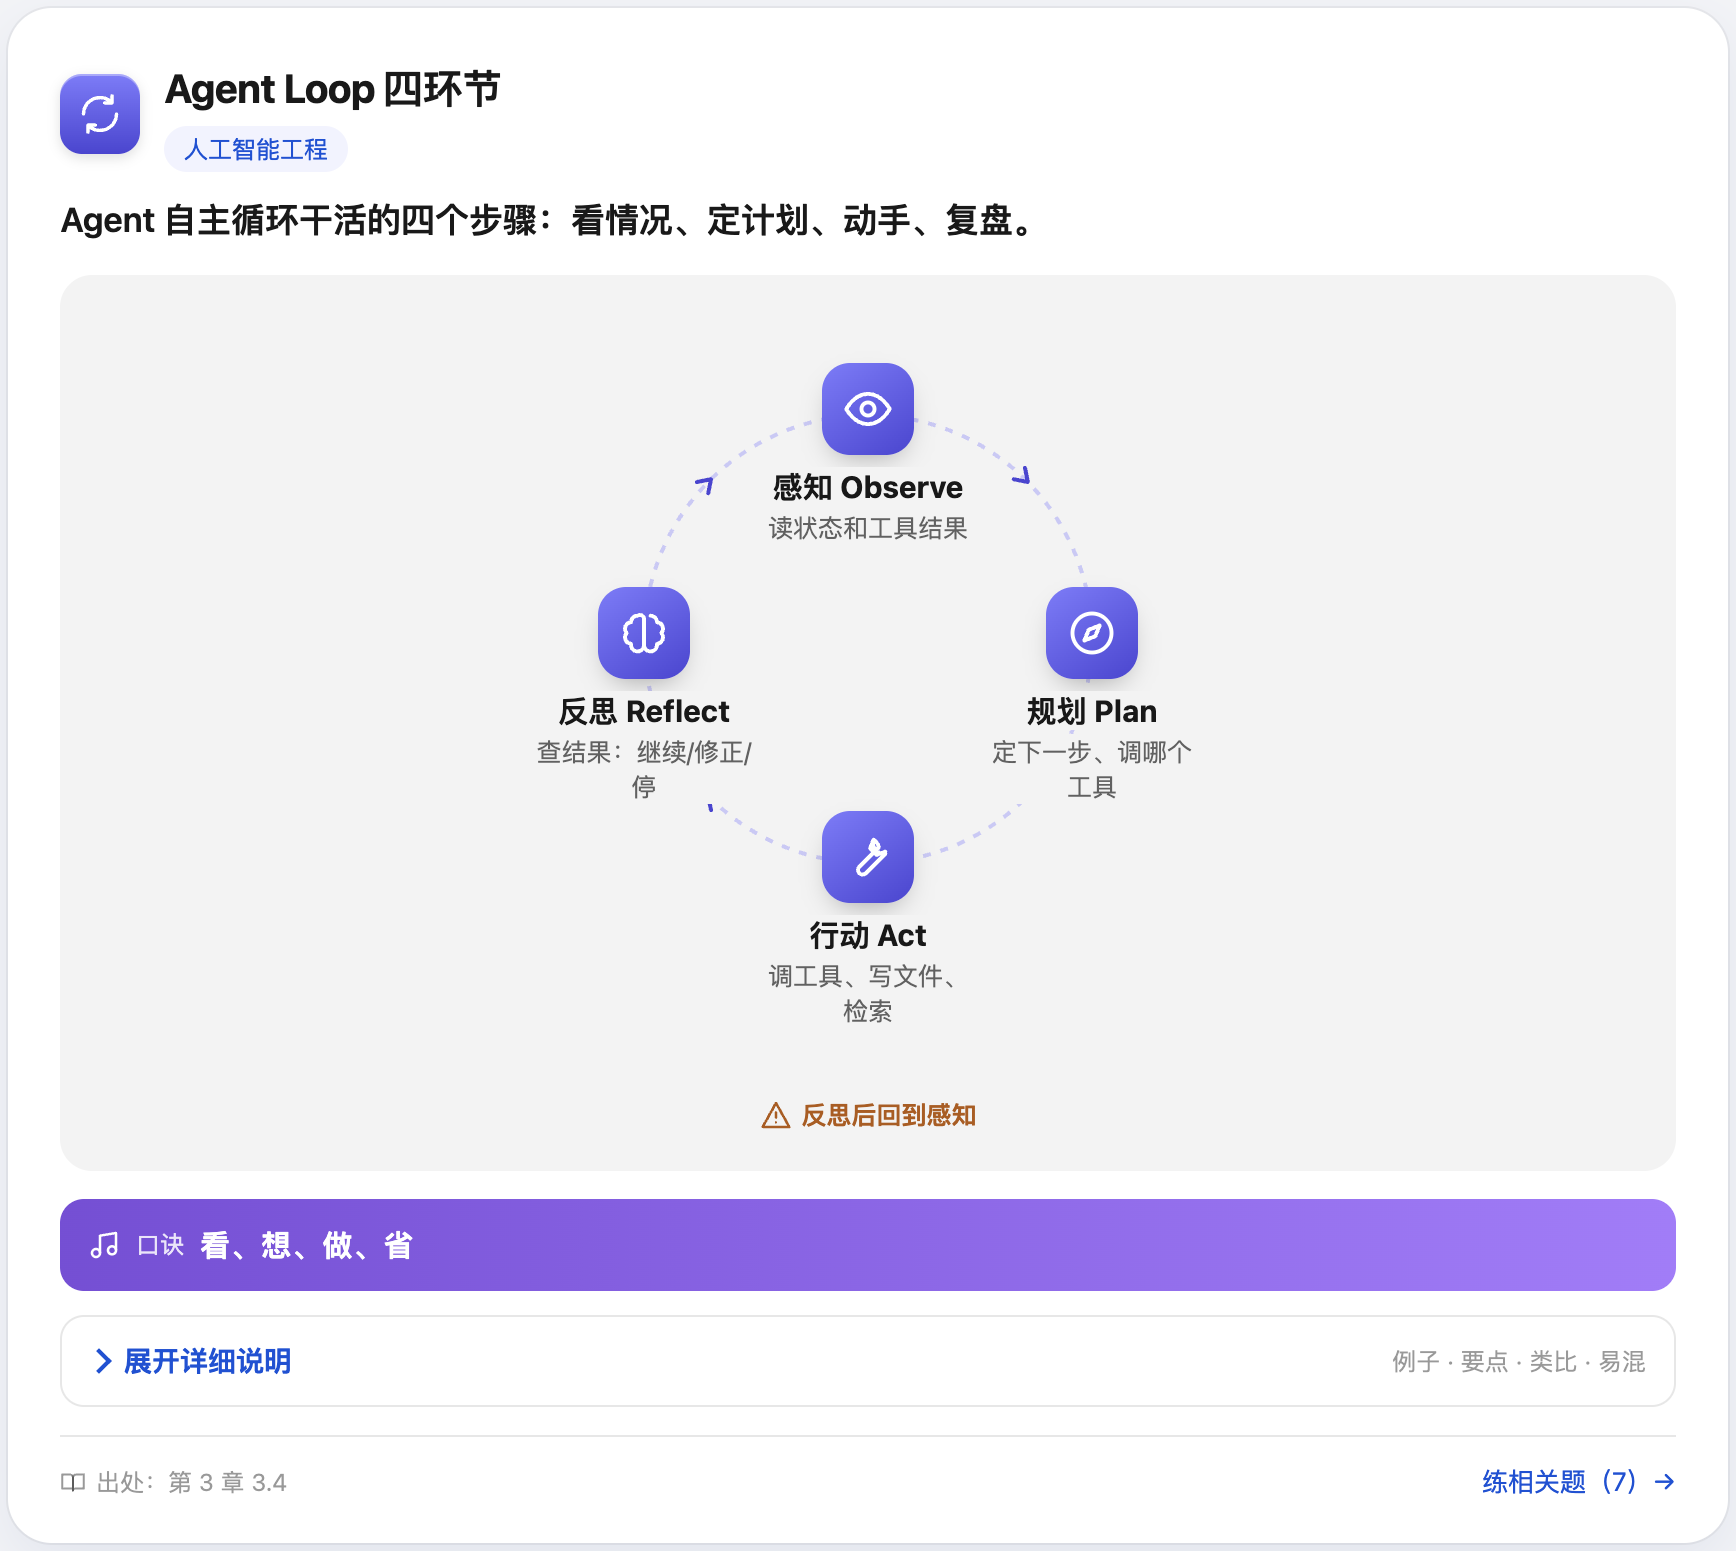
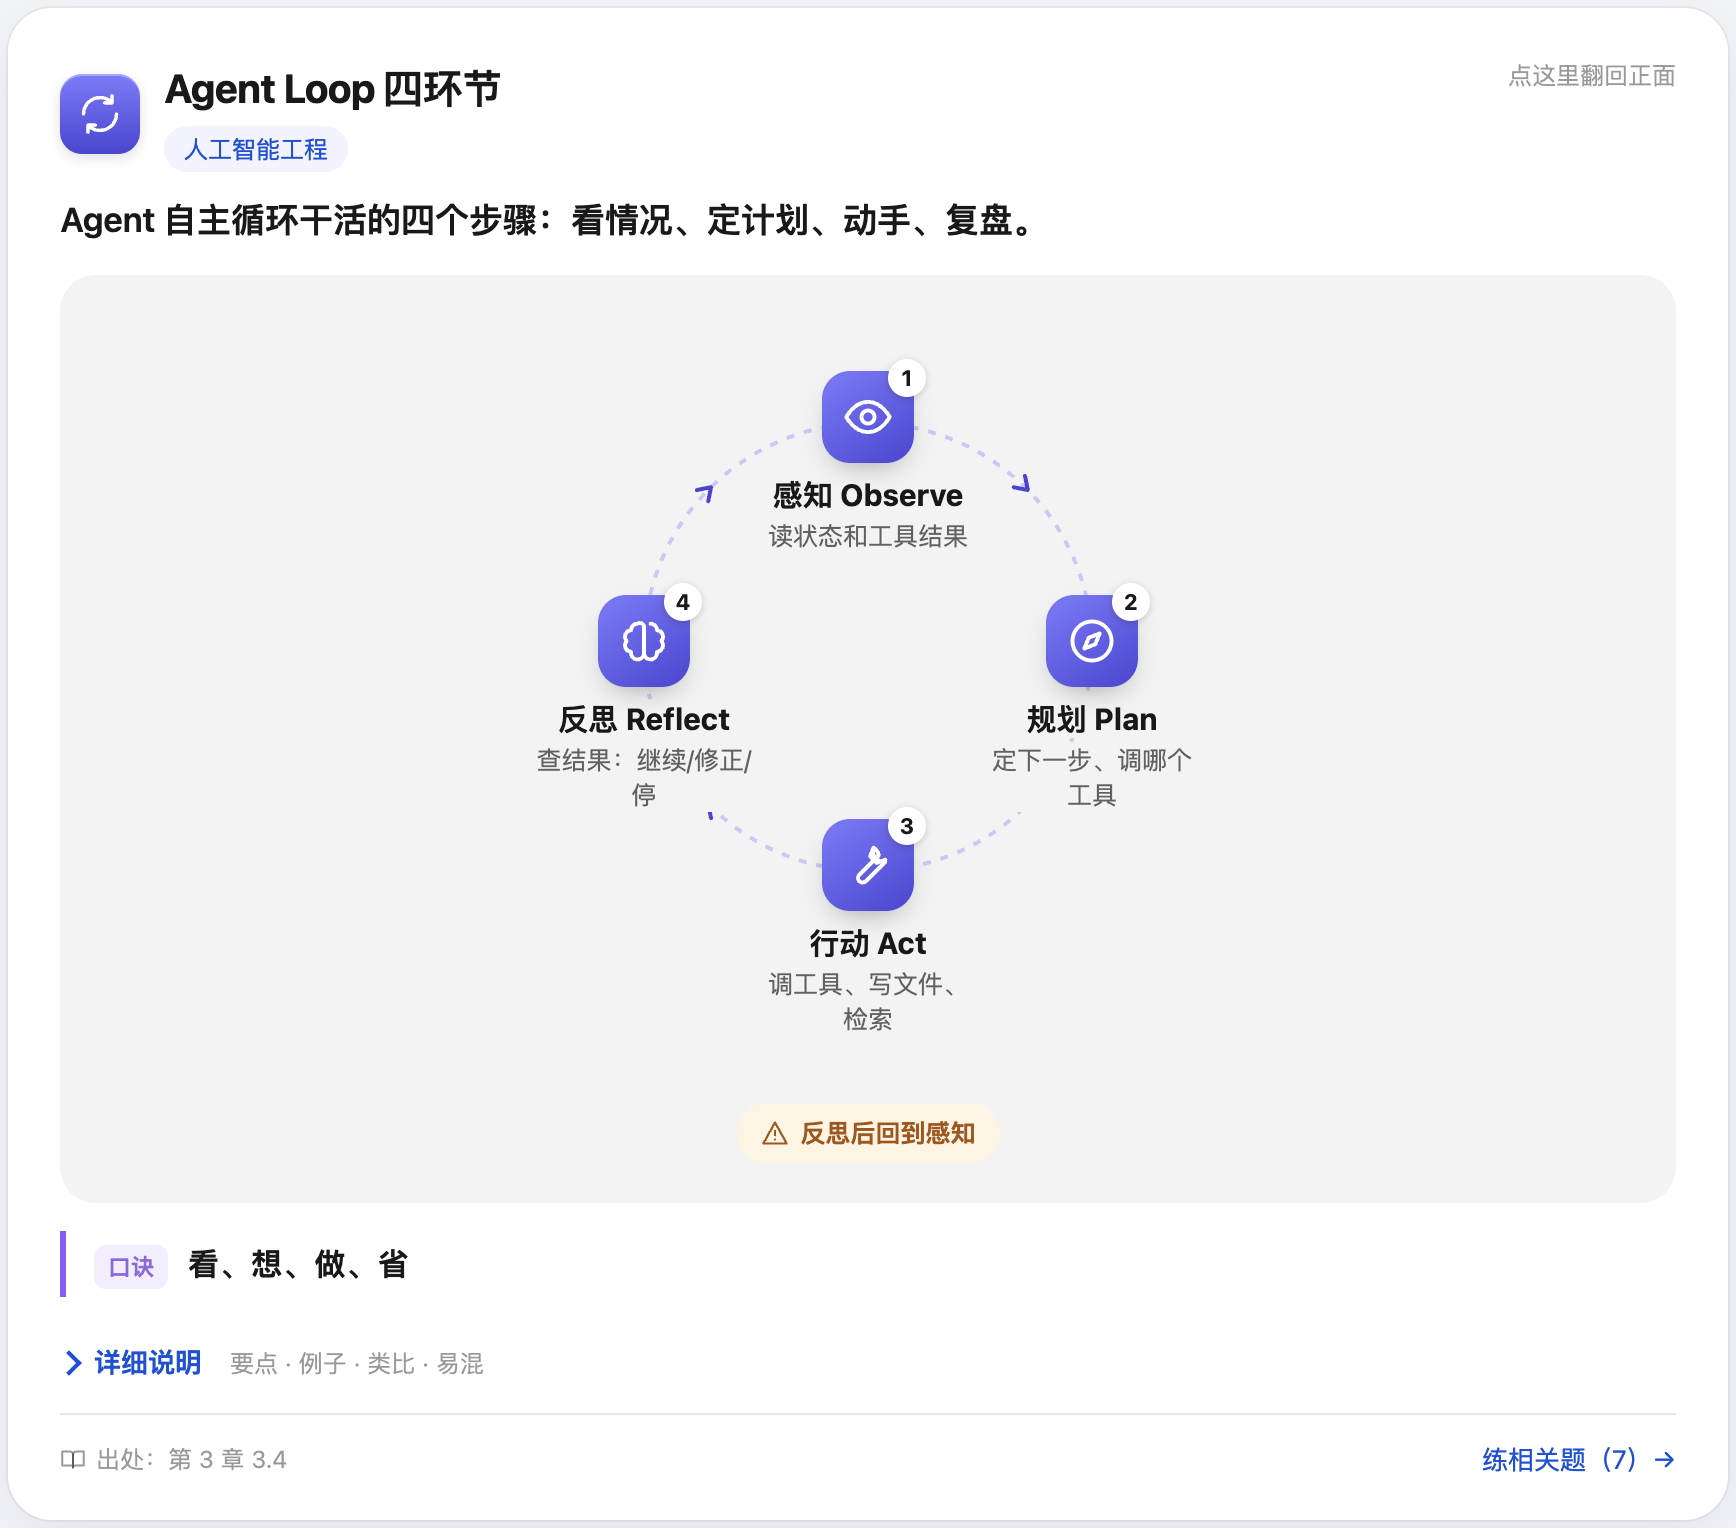
卡片背面再简化：语义配色（禁止红/允许绿）、错→对箭头、步骤序号、口诀改为引语、详细说明改为文字链接；详细里要点排在例子前

diff --git a/js/cards.js b/js/cards.js
@@ -74,14 +74,16 @@
   function visualHtml(v, g) {
     if (!v || !v.type) return "";
     const c = (window.MODULE_COLORS || [])[g.m] || ["#3b8bff", "#0a5ce6"];
-    const grad = `background:linear-gradient(145deg,${c[0]},${c[1]})`;
-    const icb = (name, cls) => `<span class="${cls || "vn-ic"}" style="${grad}">${window.iconSvg(name || g.icon || "bulb")}</span>`;
-    const node = (x) => `<div class="vn">${icb(x.i)}<b>${esc(x.t)}</b>${x.d ? `<span>${esc(x.d)}</span>` : ""}</div>`;
+    const TONE = { bad: ["#ff7b7b", "#e03131"], good: ["#43d17f", "#1f9d55"], warn: ["#ffbf4d", "#e8890c"] };
+    const toneOf = (n) => /^(listx|ban|xcircle|stop|trash|bug|eyeoff|minus)$/.test(n) ? "bad" : /^(listcheck|check|shieldcheck|thumbup|trophy|badge|plus)$/.test(n) ? "good" : /^(alert|hourglass)$/.test(n) ? "warn" : "";
+    const gradOf = (n) => { const t = TONE[toneOf(n)] || c; return `background:linear-gradient(145deg,${t[0]},${t[1]})`; };
+    const icb = (name, cls, num) => `<span class="${cls || "vn-ic"}" style="${gradOf(name || g.icon)}">${window.iconSvg(name || g.icon || "bulb")}${num ? `<i class="vn-num">${num}</i>` : ""}</span>`;
+    const node = (x, i, num) => `<div class="vn">${icb(x.i, "", num ? i + 1 : 0)}<b>${esc(x.t)}</b>${x.d ? `<span>${esc(x.d)}</span>` : ""}</div>`;
     const arrow = `<svg class="vz-arr" viewBox="0 0 24 12" aria-hidden="true"><path d="M1 6h20M16 1.5L21.5 6 16 10.5" fill="none" stroke="currentColor" stroke-width="1.6" stroke-linecap="round" stroke-linejoin="round"/></svg>`;
     const items = v.items || [];
     let body = "";
     if (v.type === "flow") {
-      body = `<div class="vz2-flow n${items.length}">${items.map((x, i) => (i ? arrow : "") + node(x)).join("")}</div>`;
+      body = `<div class="vz2-flow n${items.length}">${items.map((x, i) => (i ? arrow : "") + node(x, i, true)).join("")}</div>`;
     } else if (v.type === "cycle") {
       const n = items.length, S = 340, R = 112, cx = S / 2;
       const pos = items.map((_, i) => { const a = -Math.PI / 2 + (i * 2 * Math.PI) / n; return [cx + R * Math.cos(a), cx + R * Math.sin(a)]; });
@@ -89,7 +91,7 @@
       const tips = items.map((_, i) => { const a = -Math.PI / 2 + ((i + 0.5) * 2 * Math.PI) / n; const x = cx + R * Math.cos(a), y = cx + R * Math.sin(a); const deg = (a * 180) / Math.PI + 90; return `<path d="M-5 -4L1 0L-5 4" transform="translate(${x.toFixed(1)} ${y.toFixed(1)}) rotate(${deg.toFixed(1)})" fill="none" stroke="${c[1]}" stroke-width="2" stroke-linecap="round" stroke-linejoin="round"/>`; }).join("");
       body = `<div class="vz2-cycle" style="--s:${S}px">
         <svg class="vz-ring" viewBox="0 0 ${S} ${S}" aria-hidden="true"><circle cx="${cx}" cy="${cx}" r="${R}" fill="none" stroke="${c[0]}" stroke-opacity=".35" stroke-width="2" stroke-dasharray="4 5"/>${tips}</svg>
-        ${items.map((x, i) => `<div class="vn vn-abs" style="left:${(pos[i][0] / S * 100).toFixed(2)}%;top:${(pos[i][1] / S * 100).toFixed(2)}%">${icb(x.i)}<b>${esc(x.t)}</b>${x.d ? `<span>${esc(x.d)}</span>` : ""}</div>`).join("")}
+        ${items.map((x, i) => `<div class="vn vn-abs" style="left:${(pos[i][0] / S * 100).toFixed(2)}%;top:${(pos[i][1] / S * 100).toFixed(2)}%">${icb(x.i, "", i + 1)}<b>${esc(x.t)}</b>${x.d ? `<span>${esc(x.d)}</span>` : ""}</div>`).join("")}
       </div>`;
     } else if (v.type === "stack") {
       body = `<div class="vz2-stack">${items.map((x, i) => `<div class="vz2-layer" style="--w:${100 - i * (24 / Math.max(items.length - 1, 1))}%">${icb(x.i, "vn-ic sm")}<b>${esc(x.t)}</b><span>${esc(x.d || "")}</span></div>`).join("")}</div>`;
@@ -101,16 +103,19 @@
       }).join("")}</div>`;
     } else if (v.type === "compare") {
       const L = v.left || {}, Rt = v.right || {}, rows = Math.max((L.items || []).length, (Rt.items || []).length);
+      const tl = toneOf(L.i || ""), tr = toneOf(Rt.i || "");
+      const fix = tl === "bad" && tr === "good"; // 左错右对：中间用箭头表示「改成」
+      const mark = (t) => t === "bad" ? `<em class="mk bad">✕</em>` : t === "good" ? `<em class="mk good">✓</em>` : "";
       let r = "";
-      for (let i = 0; i < rows; i++) r += `<div class="cmp-l">${esc((L.items || [])[i] || "")}</div><div class="cmp-mid"></div><div class="cmp-r">${esc((Rt.items || [])[i] || "")}</div>`;
+      for (let i = 0; i < rows; i++) r += `<div class="cmp-c l ${tl}">${mark(tl)}<span>${esc((L.items || [])[i] || "")}</span></div><div class="cmp-mid ${fix ? "fix" : ""}">${fix ? arrow : ""}</div><div class="cmp-c r ${tr}">${mark(tr)}<span>${esc((Rt.items || [])[i] || "")}</span></div>`;
       body = `<div class="vz2-cmp">
-        <div class="cmp-h l">${window.iconSvg(L.i || "check", "ic")}<b>${esc(L.t || "")}</b></div><div class="cmp-vs">VS</div><div class="cmp-h r">${window.iconSvg(Rt.i || "xcircle", "ic")}<b>${esc(Rt.t || "")}</b></div>
+        <div class="cmp-h l ${tl}">${window.iconSvg(L.i || "check", "ic")}<b>${esc(L.t || "")}</b></div><div class="cmp-vs">${fix ? "" : "VS"}</div><div class="cmp-h r ${tr}">${window.iconSvg(Rt.i || "xcircle", "ic")}<b>${esc(Rt.t || "")}</b></div>
         ${r}
       </div>`;
     } else {
-      body = `<div class="vz2-grid n${Math.min(items.length, 5)}">${items.map(node).join("")}</div>`;
+      body = `<div class="vz2-grid n${Math.min(items.length, 5)}">${items.map((x, i) => node(x, i)).join("")}</div>`;
     }
-    return `<figure class="vz2">${body}${v.note ? `<p class="vz2-note">${window.iconSvg("alert", "ic")}${esc(v.note)}</p>` : ""}</figure>`;
+    return `<figure class="vz2">${body}${v.note ? `<p class="vz2-note"><span>${window.iconSvg("alert", "ic")}${esc(v.note)}</span></p>` : ""}</figure>`;
   }
 
   // 要点：「标题：内容」把标题加粗
@@ -119,16 +124,16 @@
   function backHtml(g) {
     const rel = related(g);
     const more = [
-      g.example ? `<div class="cm-sec"><span class="cb-tag t-ex">${ic("chat")}举个例子</span><p>${esc(g.example)}</p></div>` : "",
       (g.points || []).length ? `<div class="cm-sec"><span class="cb-tag t-pt">${ic("list")}要点</span><ol class="cb-points">${g.points.map((p) => `<li>${pointHtml(p)}</li>`).join("")}</ol></div>` : "",
+      g.example ? `<div class="cm-sec"><span class="cb-tag t-ex">${ic("chat")}举个例子</span><p>${esc(g.example)}</p></div>` : "",
       g.analogy ? `<div class="cm-sec"><span class="cb-tag t-ana">${ic("bulb")}类比</span><p>${esc(g.analogy)}</p></div>` : "",
       g.confuse ? `<div class="cm-sec"><span class="cb-tag t-conf">${ic("alert")}易混</span><p>${esc(g.confuse)}</p></div>` : "",
     ].join("");
     return `
       <p class="cb-plain">${esc(g.plain)}</p>
       ${visualHtml(g.visual, g)}
-      ${g.mnemonic ? `<div class="cb-mn">${ic("music")}<span>口诀</span><b>${esc(g.mnemonic)}</b></div>` : ""}
-      <details class="cb-more"${moreOpen ? " open" : ""}><summary>展开详细说明<em>例子 · 要点 · 类比 · 易混</em></summary><div class="cm-body">${more}</div></details>
+      ${g.mnemonic ? `<p class="cb-mn"><span>口诀</span>${esc(g.mnemonic)}</p>` : ""}
+      <details class="cb-more"${moreOpen ? " open" : ""}><summary>详细说明<em>要点 · 例子 · 类比 · 易混</em></summary><div class="cm-body">${more}</div></details>
       <p class="cb-foot"><span class="cb-src">${ic("book")}出处：${esc(g.src)}</span>${rel.length ? `<button type="button" class="link cb-rel" data-id="${g.id}">练相关题（${rel.length}）→</button>` : ""}</p>`;
   }
   document.addEventListener("toggle", (e) => { if (e.target.classList && e.target.classList.contains("cb-more")) moreOpen = e.target.open; }, true);

diff --git a/css/style.css b/css/style.css
@@ -629,3 +629,48 @@ body.in-exam .acct{display:none}
 .flash.flipped .cb-head::after{content:"点这里翻回正面";margin-left:auto;align-self:flex-start;font-size:12px;color:var(--muted);white-space:nowrap}
 @media (max-width:820px){.flash.flipped .cb-head::after{content:"翻回"}}
 .cb-mn span,.cb-mn .ic{flex:none;white-space:nowrap}
+/* ===== 卡片背面 v4：语义配色、更安静的排版 ===== */
+.vz2{padding:26px 20px 20px;background:var(--panel-2);border-radius:18px}
+.vz2 > div{max-width:680px;margin-left:auto;margin-right:auto}
+.vz2-stack{max-width:520px!important}
+.vz2-layer{grid-template-columns:auto auto 1fr;padding:8px 16px 8px 8px}
+.vz2-layer span{text-align:left;padding-left:6px;border-left:1px solid var(--line)}
+.vn-ic{position:relative}
+.vn-num{position:absolute;top:-6px;right:-6px;width:19px;height:19px;border-radius:50%;background:#fff;color:var(--ink);font:700 11px/19px system-ui;font-style:normal;text-align:center;box-shadow:0 1px 4px rgba(0,0,0,.2)}
+.vz2-cmp{max-width:620px!important;grid-template-columns:1fr 40px 1fr;gap:8px 0}
+.cmp-h{background:linear-gradient(145deg,#5f8dff,#2a62e0)}
+.cmp-h.r{background:linear-gradient(145deg,#ffa067,#e0611e)}
+.cmp-h.bad{background:linear-gradient(145deg,#ff7b7b,#e03131)}
+.cmp-h.good{background:linear-gradient(145deg,#43d17f,#1f9d55)}
+.cmp-c{background:var(--panel);border-radius:10px;padding:9px 12px;font-size:14px;display:flex;align-items:center;gap:8px;box-shadow:0 0 0 1px rgba(0,0,0,.05)}
+.cmp-c span{flex:1;text-align:center}
+.cmp-c:has(span:empty){visibility:hidden}
+.cmp-c.bad{background:#fff3f3;box-shadow:0 0 0 1px #ffd9d9;color:#8f2b2b}
+.cmp-c.bad span{text-decoration:line-through;text-decoration-color:rgba(224,49,49,.45)}
+.cmp-c.good{background:#effbf3;box-shadow:0 0 0 1px #c8efd6;color:#17663a;font-weight:600}
+.mk{font-style:normal;font-weight:800;font-size:13px;flex:none}
+.mk.bad{color:#e03131}.mk.good{color:#1f9d55}
+.cmp-mid{display:flex;align-items:center;justify-content:center}
+.cmp-mid.fix::before{display:none}
+.cmp-mid.fix .vz-arr{margin:0;width:22px;color:#1f9d55}
+.vz2-note{text-align:center;display:block;margin:18px 0 0}
+.vz2-note span{display:inline-flex;align-items:center;gap:6px;background:#fff4e2;color:#a8530a;border-radius:999px;padding:5px 12px;font-size:12.5px;font-weight:600}
+.vz2-note .ic{width:14px;height:14px}
+.cb-mn{display:flex;align-items:baseline;gap:10px;background:none;color:var(--ink);border-radius:0;padding:4px 0 4px 14px;margin:0 0 14px;border-left:3px solid #8b5cf6;font-size:15.5px;font-weight:700;letter-spacing:.02em}
+.cb-mn span{flex:none;font-size:11.5px;font-weight:700;color:#7b4ddb;background:#f1ebff;border-radius:6px;padding:2px 7px;letter-spacing:0}
+.cb-more{border:none;margin:0}
+.cb-more summary{padding:8px 0;font-size:13.5px}
+.cb-more summary em{margin-left:6px}
+.cb-more[open]{border-top:1px solid var(--line)}
+.cm-body{padding:0 0 4px}
+.flash-back .cb-foot{border-top:1px solid var(--line);padding-top:12px;margin-top:6px}
+@media (prefers-color-scheme: dark){:root:not([data-theme="light"]) .cmp-c.bad{background:#3a1f1f;box-shadow:0 0 0 1px #5a2a2a;color:#ffb3b3}:root:not([data-theme="light"]) .cmp-c.good{background:#173323;box-shadow:0 0 0 1px #24543a;color:#9be7b8}:root:not([data-theme="light"]) .cb-mn span{background:#2e2350;color:#c4a8ff}:root:not([data-theme="light"]) .vz2-note span{background:#3a2a12;color:#ffbf70}}
+@media (max-width:820px){
+  .vz2{padding:18px 12px 14px}
+  .vz2-cmp{grid-template-columns:1fr 26px 1fr}
+  .cmp-c{padding:8px 8px;font-size:13px;gap:5px}
+  .cmp-h{font-size:14px;padding:9px 6px}
+  .vz2-layer span{border-left:none;padding-left:0}
+  .cb-more summary em{display:none}
+}
+.cb-more,.cb-more[open]{border-radius:0}

diff --git a/README.md b/README.md
@@ -108,7 +108,7 @@
 
 ![知识点速览](docs/images/app-overview.png)
 
-**术语卡片**——每个术语配一个表意图标，颜色区分所属模块；先看术语自己想一想，再翻面看答案。背面只放三样东西：**一句话解释 + 一张图标图解 + 口诀**，一眼看懂；例子、要点、类比、易混点收在「展开详细说明」里，需要时再点开。选「不认识」的卡片会隔几张再出现，直到认识为止；底部「练相关题」可以直接做用到这个术语的题目。
+**术语卡片**——每个术语配一个表意图标，颜色区分所属模块；先看术语自己想一想，再翻面看答案。背面只放三样东西：**一句话解释 + 一张图标图解 + 口诀**，一眼看懂；要点、例子、类比、易混点收在「展开详细说明」里，需要时再点开。选「不认识」的卡片会隔几张再出现，直到认识为止；底部「练相关题」可以直接做用到这个术语的题目。
 
 图解把概念拆成几个「图标 + 短标题 + 一句话」，按概念的结构自动选 6 种画法：
 
@@ -117,10 +117,10 @@
 | ![分层图解](docs/images/card-stack.png) | ![流程图解](docs/images/card-flow.png) |
 | **循环（Agent Loop 四环节）** | **台阶（死亡谷）** |
 | ![循环图解](docs/images/card-cycle.png) | ![台阶图解](docs/images/card-levels.png) |
-| **对比（Echo / Delta）** | **宫格（三个端）** |
+| **对比（最小必要权限：错误 → 正确）** | **宫格（三个端）** |
 | ![对比图解](docs/images/card-compare.png) | ![宫格图解](docs/images/card-grid.png) |
 
-手机上流程和宫格会自动改成竖排：
+手机上的效果（流程和宫格会自动改成竖排）：
 
 <img src="docs/images/card-mobile.png" alt="手机端卡片" width="320">
 
